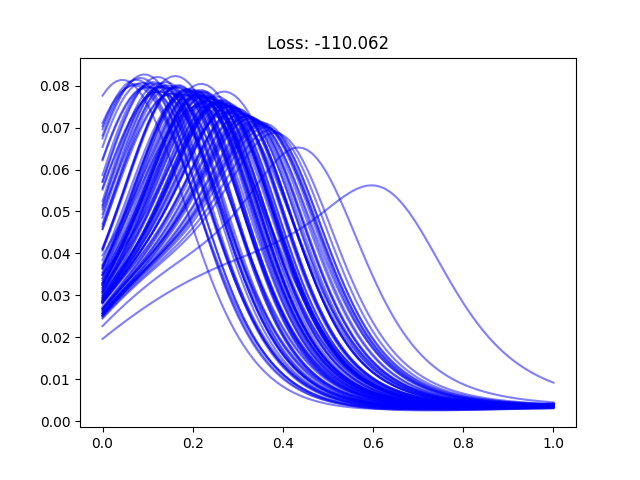
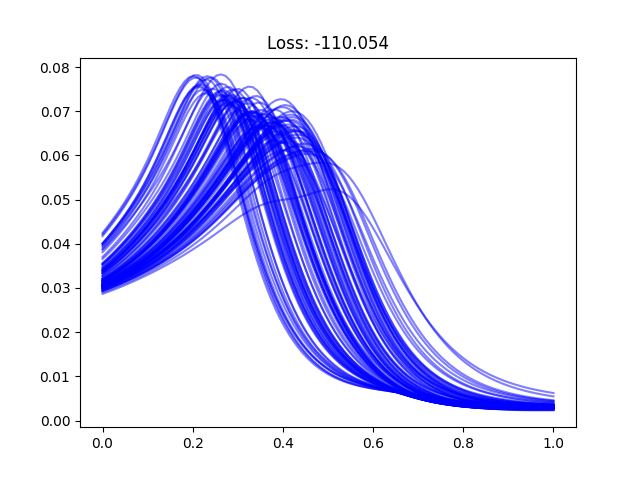
add new trained model and figs for peptide phasemapping

diff --git a/activephasemap/activelearn/surrogates.py b/activephasemap/activelearn/surrogates.py
@@ -198,10 +198,8 @@ def update_npmodel(time, np_model, data, **kwargs):
     data_loader = DataLoader(dataset, batch_size=batch_size, shuffle=True)
     for name, param in np_model.named_parameters():
         if 'hidden_to' in name:
-            print(name)
             param.requires_grad = False
         elif 'r_to_hidden' in name:
-            print(name)
             param.requires_grad = False   
     optimizer = torch.optim.Adam(np_model.parameters(), lr=kwargs.get('lr',  1e-3))
     trainer = NeuralProcessTrainer(device, np_model, optimizer,
@@ -211,7 +209,7 @@ def update_npmodel(time, np_model, data, **kwargs):
     )
 
     np_model.training = True
-    trainer.train(data_loader, num_iterations)
+    trainer.train(data_loader, num_iterations, verbose = kwargs.get("verbose", False))
     loss = trainer.epoch_loss_history[-1]
     print('func:update_npmodel: NP model loss : %.2f'%loss)
 

diff --git a/activephasemap/np/training.py b/activephasemap/np/training.py
@@ -106,8 +106,6 @@ class NeuralProcessTrainer():
 
                 if all([self.verbose, self.steps % self.print_freq == 0]):
                     print("iteration {}, loss {:.3f}".format(self.steps, loss.item()))
-            if self.verbose:
-                print("Epoch: {}, Avg_loss: {}".format(epoch, epoch_loss / len(data_loader)))
 
             self.epoch_loss_history.append(epoch_loss / len(data_loader))
             if x_plot is not None:

diff --git a/examples/UV_VIS/pretrain.py b/examples/UV_VIS/pretrain.py
@@ -22,7 +22,7 @@ print('Saving the results to %s'%SAVE_DIR)
 batch_size = 8
 num_context = 40
 num_target = 40
-num_iterations = 100
+num_iterations = 150
 x_dim = 1
 y_dim = 1
 r_dim = 50  # Dimension of representation of context points
